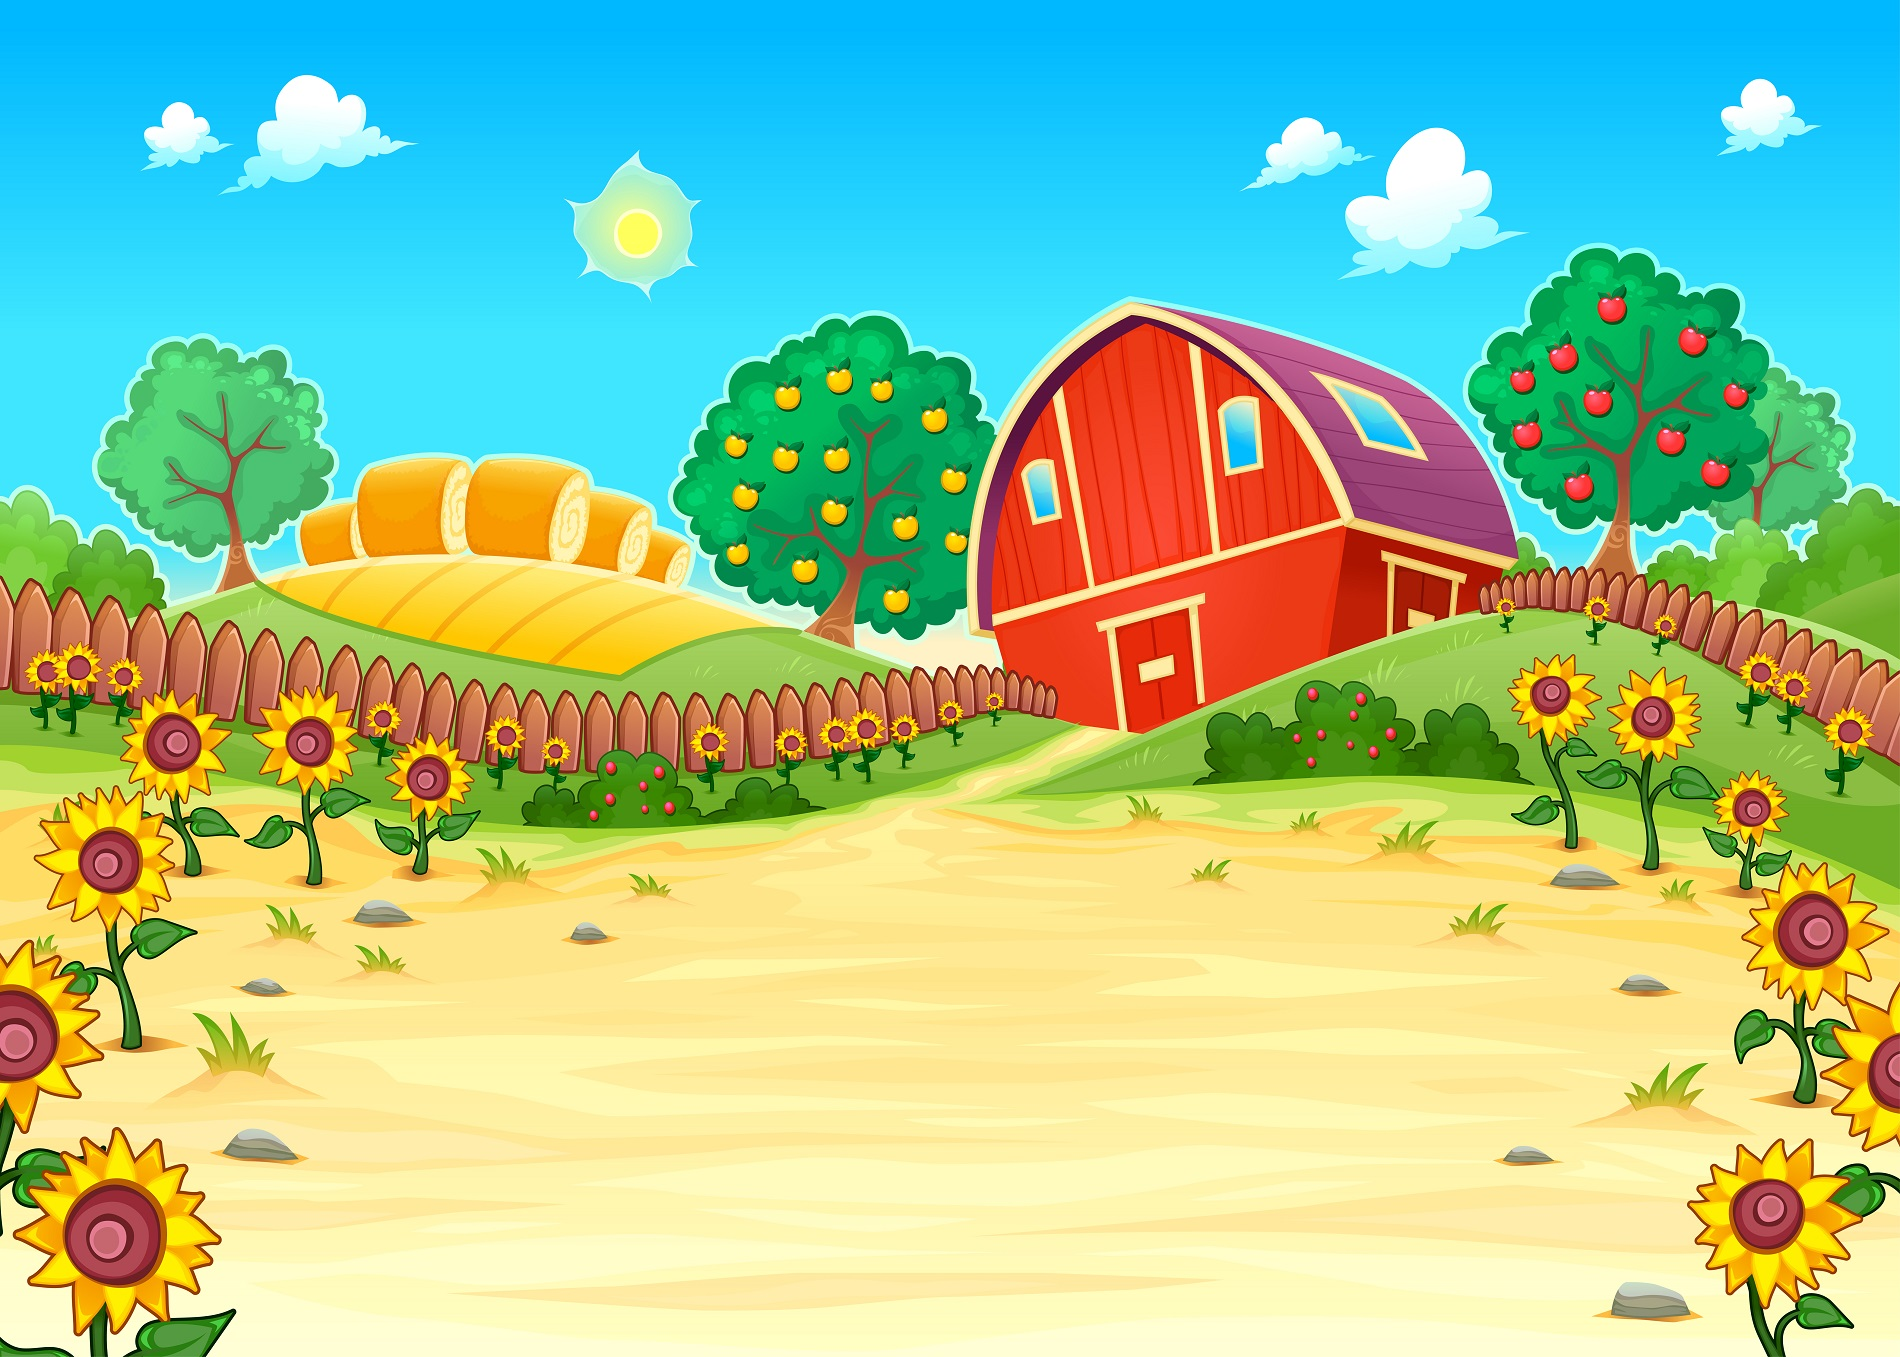
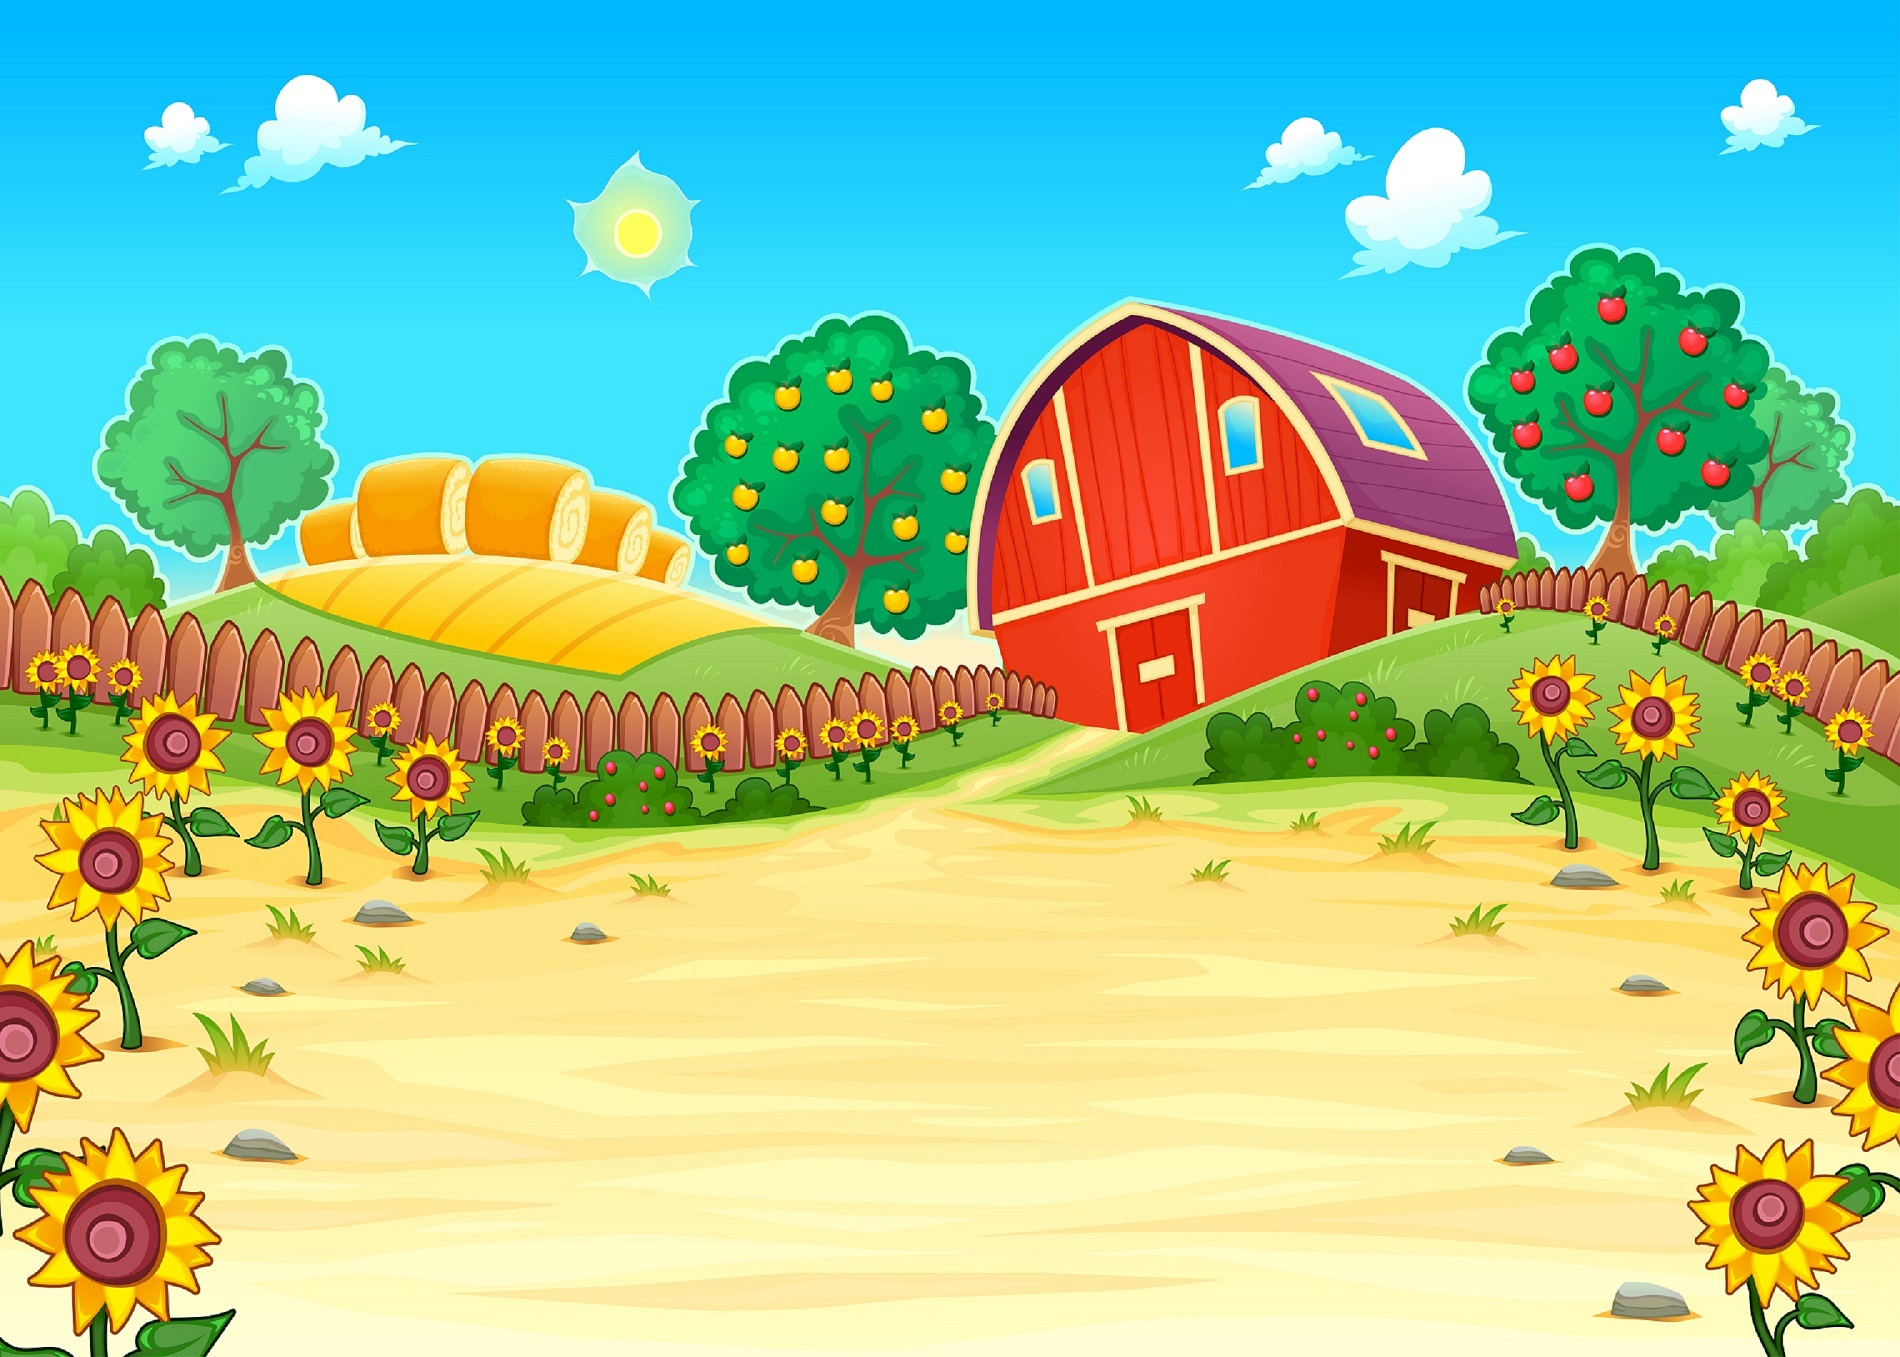
background fix and js updates

Changed region(s): [[0.4347, 0.5262, 0.4658, 0.5571]]

diff --git a/resources/js/game.js b/resources/js/game.js
@@ -27,10 +27,10 @@ let lossesScore = 0;
 
 const guessInput = document.querySelector('#guessLetter');
 const letterUsed = document.querySelector('#lettersUsed');
-const lettersCounted = document.querySelector('#lettersCounted');
+const guessesRemaining = document.querySelector('#guessesRemaining');
 const victory = document.querySelector('#victory');
 
-animals = [ 'chicken', 'duck', 'horse', 'cow', 'pig' ];
+animals = [ 'chicken', 'duck', 'horse', 'cow', 'pig', 'goat', 'dog' ];
 
 
 /* ==========================================================================
@@ -56,6 +56,10 @@ function animalMagic() {
         document.querySelector('#animalImage').src = './resources/img/duck.png';
     } else if (selectedAnimal === 'horse') {
         document.querySelector('#animalImage').src = './resources/img/horse.png';
+    } else if (selectedAnimal === 'goat') {
+        document.querySelector('#animalImage').src = './resources/img/goat.png';
+    } else if (selectedAnimal === 'dog') {
+        document.querySelector('#animalImage').src = './resources/img/dog.png';
     } else {
         document.querySelector('#animalImage').src = './resources/img/barnStart.jpg';
     }
@@ -72,7 +76,7 @@ function animalMagic() {
 
     // set/reset Guess, letters counted, and Victory display
     letterUsed.textContent = 'Letters Guessed: ';
-    lettersCounted.textContent = 'Letters Counted: ';
+    guessesRemaining.textContent = 'Guesses Remaining: ';
     victory.textContent = '';
     
 
@@ -103,14 +107,14 @@ document.onkeyup = function(e){
        Check for Loose Scenario
        ========================================================================== */
     
-    // check if keyCounter is greater than length of selected animal, bail out if greater
-    if (keyCounter > selectedAnimal.length) {
+    // check if keyCounter is greater than length of selected animal +2, bail out if greater
+    if (keyCounter > (selectedAnimal.length + 2)) {
         // clear input field
         guessInput.value = '';
         // clear letters guessed
         letterUsed.textContent = '';
         // clear letters counted
-        lettersCounted.textContent = '';
+        guessesRemaining.textContent = '';
         // display message
         victory.textContent = 'You loose!!!!';
         // display losses
@@ -119,7 +123,7 @@ document.onkeyup = function(e){
         // reset keyCounter
         keyCounter = 0;
         // Innterupt game and load new animal
-        setTimeout(animalMagic, 1000);
+        setTimeout(animalMagic, 1500);
     }
 
     /*
@@ -142,8 +146,11 @@ document.onkeyup = function(e){
         letterUsed.textContent += keys;
     }
 
+    // calculate remaining guesess before loss is counted
+    let remainder = (selectedAnimal.length + 2) - keyCounter;
+
     // write letters count to screen
-    lettersCounted.textContent = `Letters Counted: ${keyCounter}`;
+    guessesRemaining.textContent = `Guesses Remaining: ${remainder}`;
    
     // print to screen refactored underscores array that
     animalHint.textContent = (undercoresArr.join(' '));
@@ -165,7 +172,7 @@ document.onkeyup = function(e){
         keyCounter = 0;
 
         // load new animal after 1 second, else execution is too fast to see last letter populate array, then to screen
-        setTimeout(animalMagic, 1000);
+        setTimeout(animalMagic, 1500);
 
     }
             

diff --git a/index.html b/index.html
@@ -21,6 +21,7 @@
       rel="stylesheet"
     />
     <link rel="stylesheet" href="./resources/css/styles.css" />
+    <link rel="stylesheet" href="./resources/css/queries.css" />
     <title>Homework 3</title>
   </head>
 
@@ -55,7 +56,7 @@
                 alt="farm"
               />
               <div class="card-body">
-                <h4 class="card-title text-center">Guess the Animal</h4>
+                <h4 id="selectedAnimalTitle" class="card-title text-center">Guess the Animal</h4>
                 <p id="selectedAnimal" class="card-text text-center">
                   
                 </p>
@@ -103,8 +104,8 @@
               <p id="lettersUsed" class="lead text-center mt-5">
                 Letters Guessed:
               </p>
-              <p id="lettersCounted" class="lead text-center mt-5">
-                Letters Counted:
+              <p id="guessesRemaining" class="lead text-center mt-5">
+                Guesses Remaining:
               </p>
               <p id="victory" class="lead text-center mt-5">
                   

diff --git a/resources/css/styles.css b/resources/css/styles.css
@@ -3,14 +3,19 @@
    General CSS Overrides
    ========================================================================== */
 html { 
-    /* required for sticky footer */
-    height: 100%;
+    /* NOT required for sticky footer ...
+       messes up background image.  Being left in but commented for future 
+       project reference.   Only body min-height: 100% is needed. */
+
+
+    /* height: 100%; */
 }
 
 body {
     background-image: url(../img/526.jpg);
     background-repeat: no-repeat;
     background-size: cover;
+    
     /* required for sticky footer */
     min-height: 100%;
     position: relative;

diff --git a/resources/css/queries.css b/resources/css/queries.css
@@ -1,0 +1,10 @@
+
+/* ==========================================================================
+   Responsive overrides
+   ========================================================================== */
+
+@media screen and (max-width: 767px) {
+    #playerArea {
+        margin-right: 16.6666%;
+    }
+}
